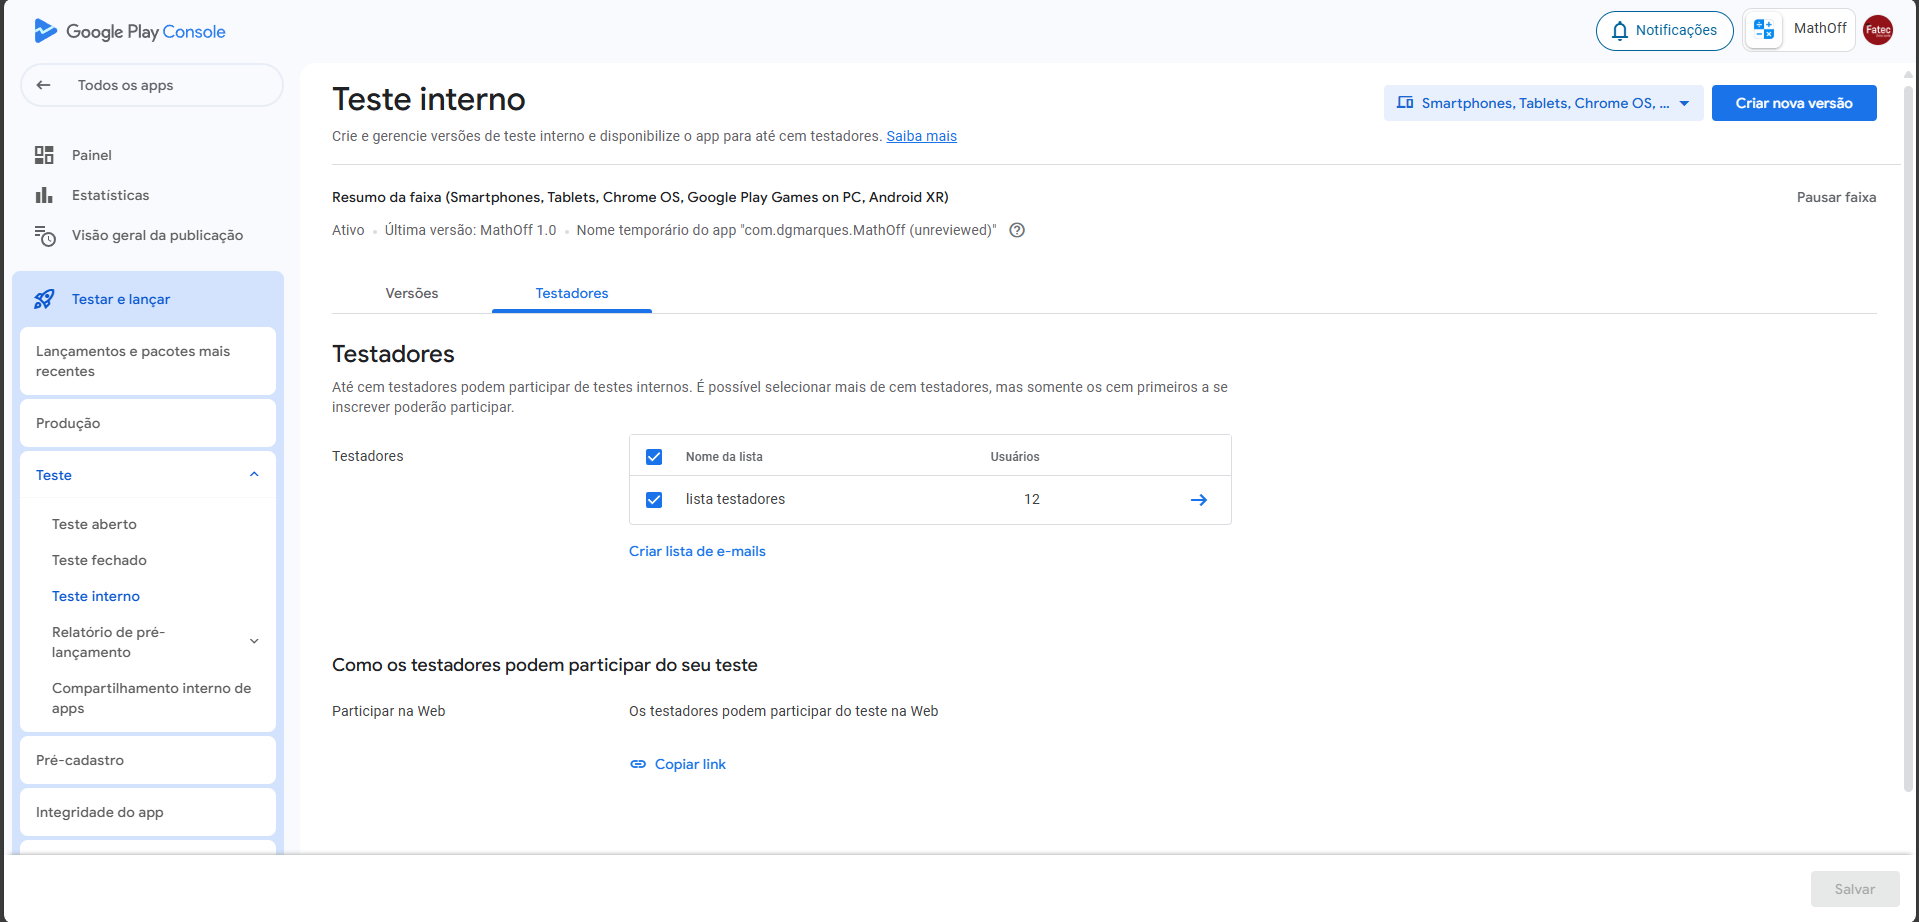
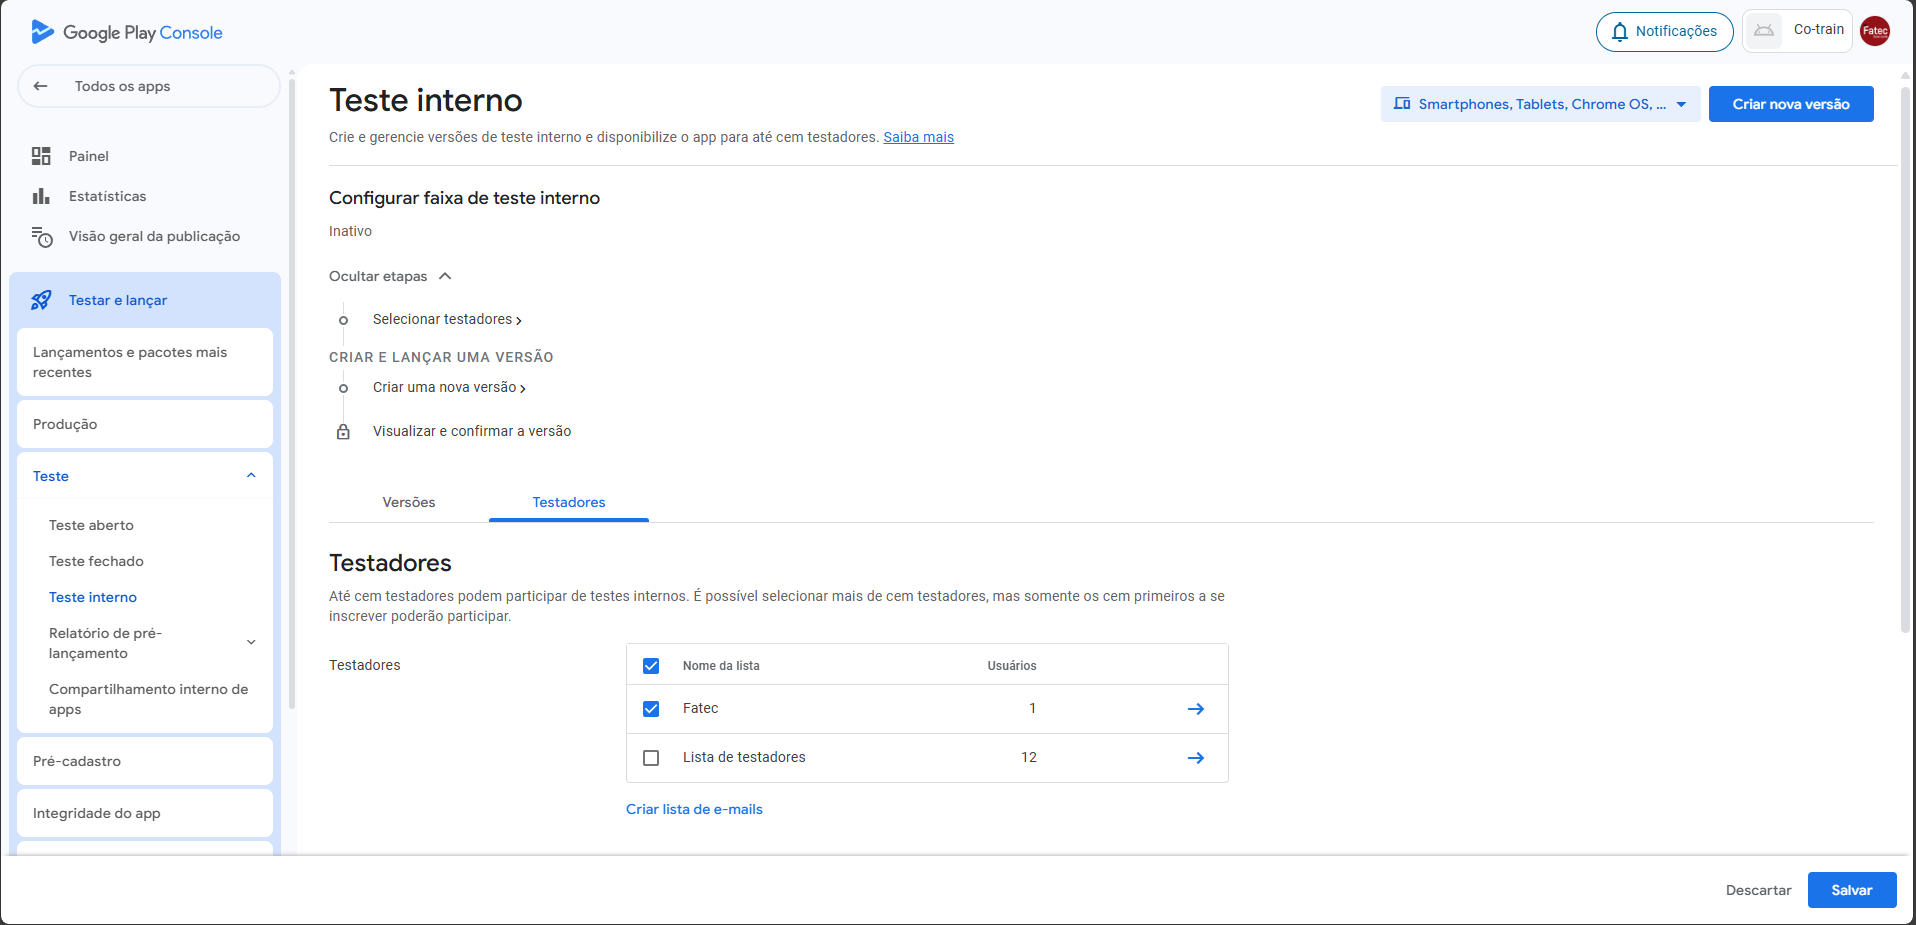
doc: remover obrigatoriedade de teste por 14 dias

diff --git a/README.md b/README.md
@@ -37,21 +37,21 @@ Ao selecionar o aplicativo, é apresentado a tela de configuração do app que c
 - Criar e Publicar uma versão
 
 ## Começar a testar agora
-Os aplicativos devem passar por um "teste interno" realizado por você mesmo, com duração de 14 dias e com 12 pessoas. Por isso a primeira fase é adicionar uma lista com o e-mail dos testadores, mas não é necessário adicionar a lista nesse momento, podendo seguir para as demais configurações do app.
+Os aplicativos podem passar por um "teste interno", que é uma versão do seu aplicativo que apenas e-emails pré-cadastrados podem baixar. Essa fase não é obrigatória 
 
 <img width="100%" src="./img/Imagem3.png?v=1">
 
 ### Criar uma nova versão
-A segunda fase consiste em criar uma nova versão do aplicativo (versão de teste interno para a Play Store aprovar a publicação), contendo o arquivo de build (.aab). Nessa etapa, é necessário definir o nome da versão (visível apenas internamente, para fins de controle), adicionar as notas da versão (que serão exibidas publicamente na Play Store) e, por fim, anexar o arquivo .aab.
+A segunda fase consiste em criar uma nova versão do aplicativo (versão de teste interno para a Play Store aprovar a publicação), contendo o arquivo de build (.aab). Nessa etapa, é necessário definir o nome da versão (visível apenas internamente, para fins de controle), adicionar as notas da versão (uma descriçãlo do que essa versão do seu aplicativo faz e que serão exibidas publicamente na Play Store) e, por fim, anexar o arquivo .aab.
 
 <img width="100%" src="./img/Imagem37.png?v1">
 <img width="100%" src="./img/Imagem38.png?v1">
 
 <img width="100%" src="./img/Imagem4.png?v1">
 
-Após adicionar a lista de e-mails dos testadores, compartilhe o link para que eles possam baixar o aplicativo
+Caso queira que alguém possa baixar o aplicativo antes da aprovação da Play Store, crie uma lista com o nome do seu aplicativo e adicione todos os e-emails de quem quer permitir que baixe antecipadamente, caso não queira essa opção, selecione a lista "Fatec" para cumprir essa etapa. Após adicionar a lista de e-mails dos testadores, compartilhe o link para que eles possam baixar o aplicativo antes dele ser lançado
 
-<img width="100%" src="./img/Imagem39.png?v1">
+<img width="100%" src="./img/Imagem39.png?v=2">
 
 ### Visualizar e confirmar a versão
 Por fim, basta avançar para visualizar um resumo geral e possíveis alertas de erro, caso existam. Para facilitar a visualização, expanda as mensagens e corrija os pontos indicados, se necessário.
@@ -204,6 +204,9 @@ Selecione os países e regiões que deseja (é possível selecionar todos) e cli
 Após salvar, será possível ir para a tela de "Visão geral da publicação", onde é mostrado as mudanças feitas no seu aplicativo e a opção de enviar para a Play Store revisar, depois da revisão, o seu aplicativo estará disponível na Play Store.
 
 <img width="100%" src="./img/Imagem44.png">
+
+Sempre que você alterar qualquer informação no seu aplicativo, será necessário abrir a tela "Visão geral da publicação" e enviar as mudanças para a revisão.
+
 <img width="100%" src="./img/Imagem45.png">
 
 Após enviar, a Play Store irá fazer uma validação rapida de alguns minutos, verificando se falta alguma informação
